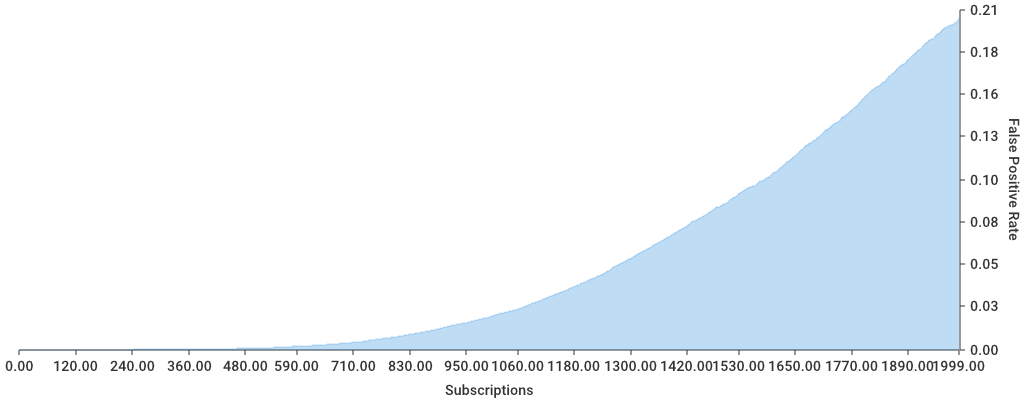
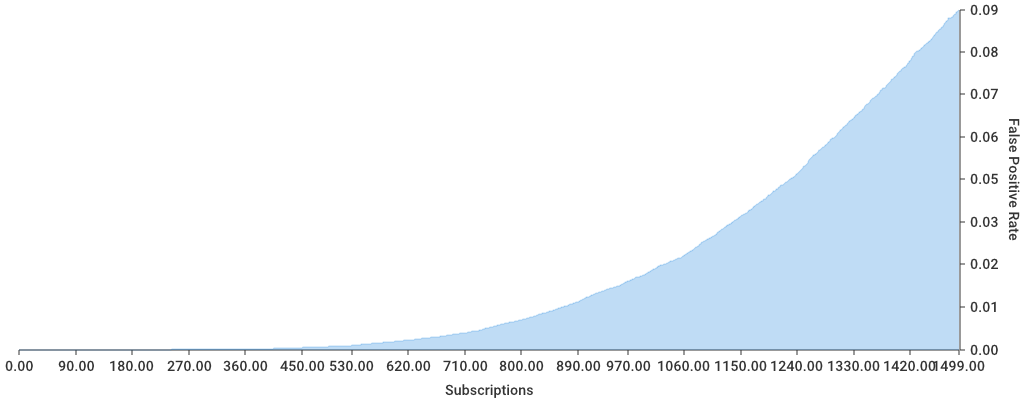
updated readme

diff --git a/_simulation/subfprate.go b/_simulation/subfprate.go
@@ -33,7 +33,7 @@ func getChartData(subLimit int) ([]float64, []float64) {
 
 func drawChart(res http.ResponseWriter, req *http.Request) {
 
-	xValues, yValues := getChartData(2000)
+	xValues, yValues := getChartData(1500)
 
 	graph := chart.Chart{
 		XAxis: chart.XAxis{

diff --git a/README.md b/README.md
@@ -13,7 +13,7 @@
 Go implementation of the [quasar protocol](https://www.microsoft.com/en-us/research/wp-content/uploads/2008/02/iptps08-quasar.pdf).
 
 
-# Statistics
+# Simulation Statistics
 
 ## Subscription false positive rate.
 
@@ -21,26 +21,23 @@ The more saturated the root subscription bloom filter becomes, the more
 false positives.
 
 TODO how to test larger filter size traffic vs larger false positive
-traffic.
+traffic?
 
 ![Subscription False Positive rate](https://github.com/f483/quasar/raw/master/_simulation/subfprate.png)
 
-
-# Simulation setup
-
-## Mock overlay network usage.
-
-For the simulaton a mock overlay network is used, with peers connected
-randomly to one another. This allows quick isolated testing of the quasar
-protocol. 
-
-It does not allow testing of: Peer discovery, churn behaviour, 
-NAT traversal or behaviour of different overlay networks.
-
-### Assumed topic subscription distribution.
+## Topic subscription distribution.
 
 A long tail power law is assumed for the distribution of topic
 subscriptions, loosly based on twitter data.
 
 ![Subscription Distribution](https://github.com/f483/quasar/raw/master/_simulation/subdistribution.png)
+
+
+## Testing Setup
+
+The simulation uses a mock overlay network. Peers connected randomly to
+one another. This allows quick isolated testing of the quasar protocol.
+
+It does not allow testing of: Peer discovery, churn behaviour, NAT traversal or behaviour of different overlay networks.
+
 
